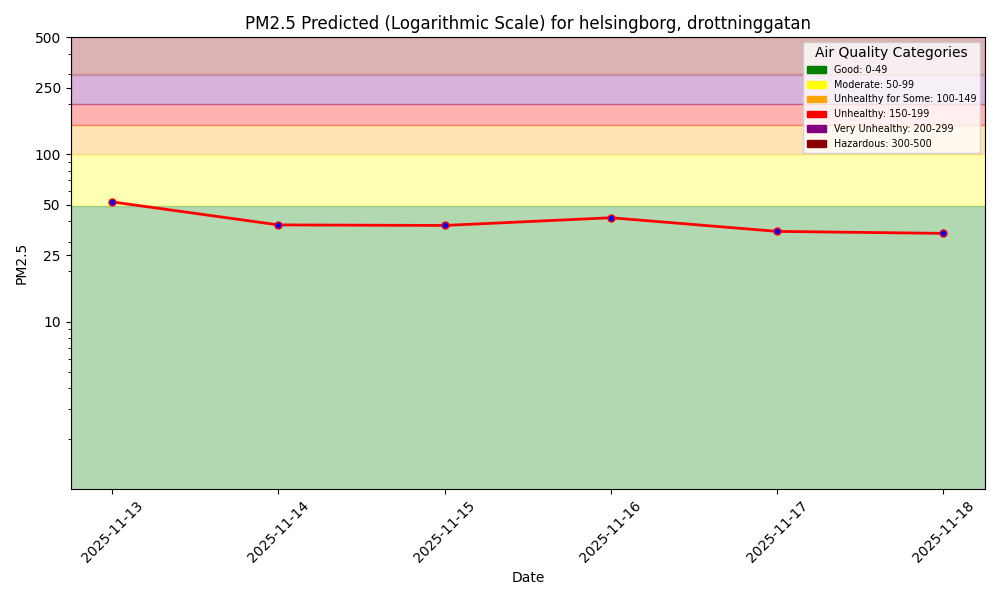
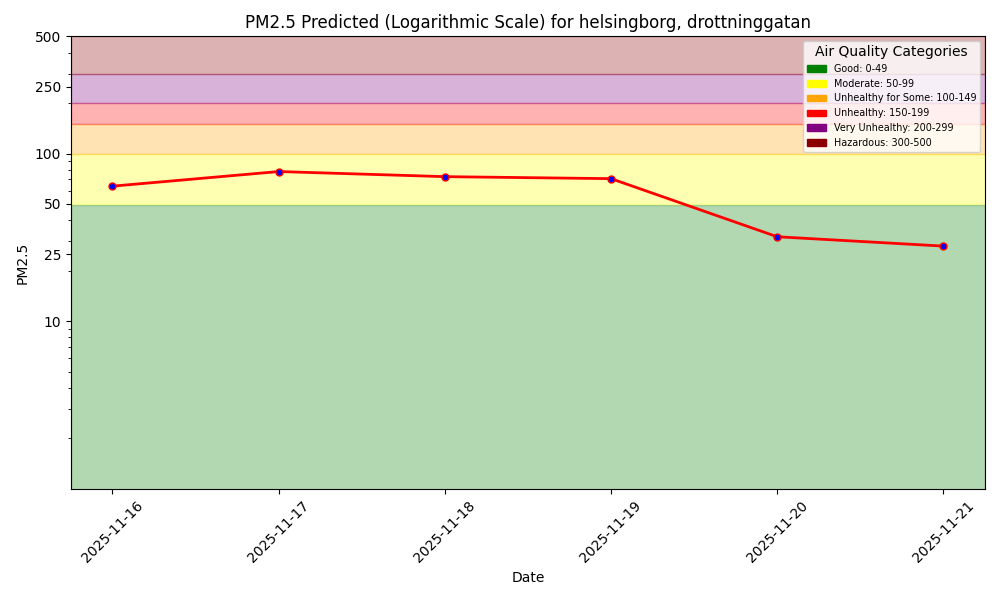
Refactor code structure for improved readability and maintainability

diff --git a/README.md b/README.md
@@ -17,15 +17,15 @@ We selected lag_1, lag_2, and lag_3 as new features, which means the pm25 data f
 
 ![Fg1](./img/feature_2.png)
 
-Without New Features(Training)
+Without New Features (Training)
 ![Fg2](./img/p3.png)
-With New Features(Training)
+With New Features (Training)
 ![Fg3](./img/p3_2.png)
 
-Without New Features(Inference)
+Without New Features (Inference)
 ![Fg3](./img/cmp.png)
 
-With New Features(Inference)
+With New Features (Inference)
 ![Fg3](./docs/air-quality/assets/img/pm25_hindcast_1day_1.png)
 
 ### Multi-Sensors
@@ -35,7 +35,7 @@ Our designated area is "Helsingborg and Landskorna", and the 3 sensors we chose 
 We give each sensors an id, and put all the information including url, country, city, street, and csv file path onto .env file with the name always ends with "_id".
 
 3. Notebook
-We modify the notebooks for to take sensor id as input through command line. 
+We modify the notebooks for to take sensor id as input through command line. First, we parse the input from the command line and got the attribute "id". Then, 
 4. Make File
 5. .yml file
 
